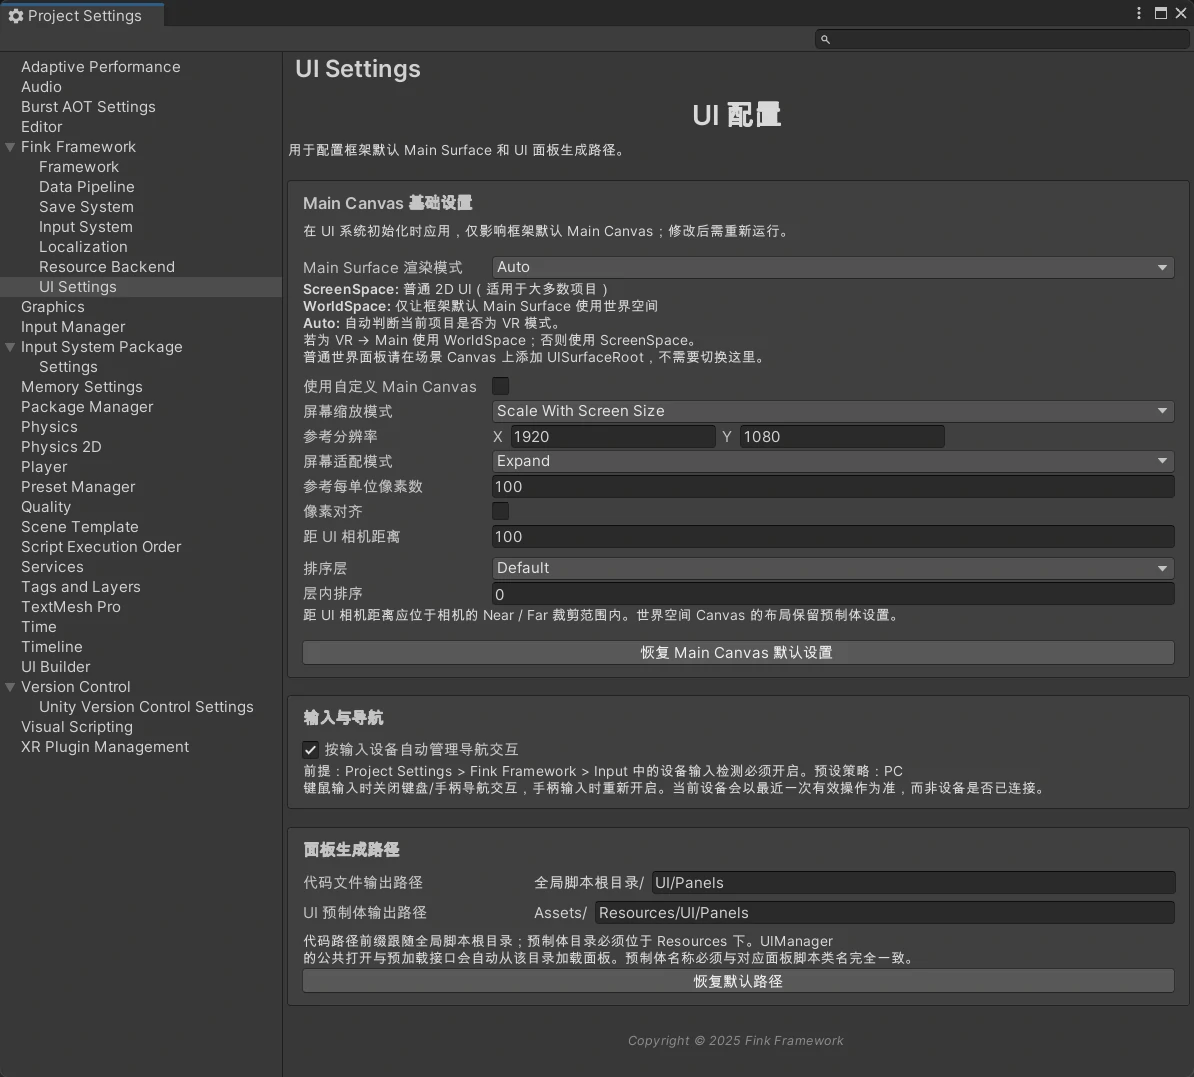
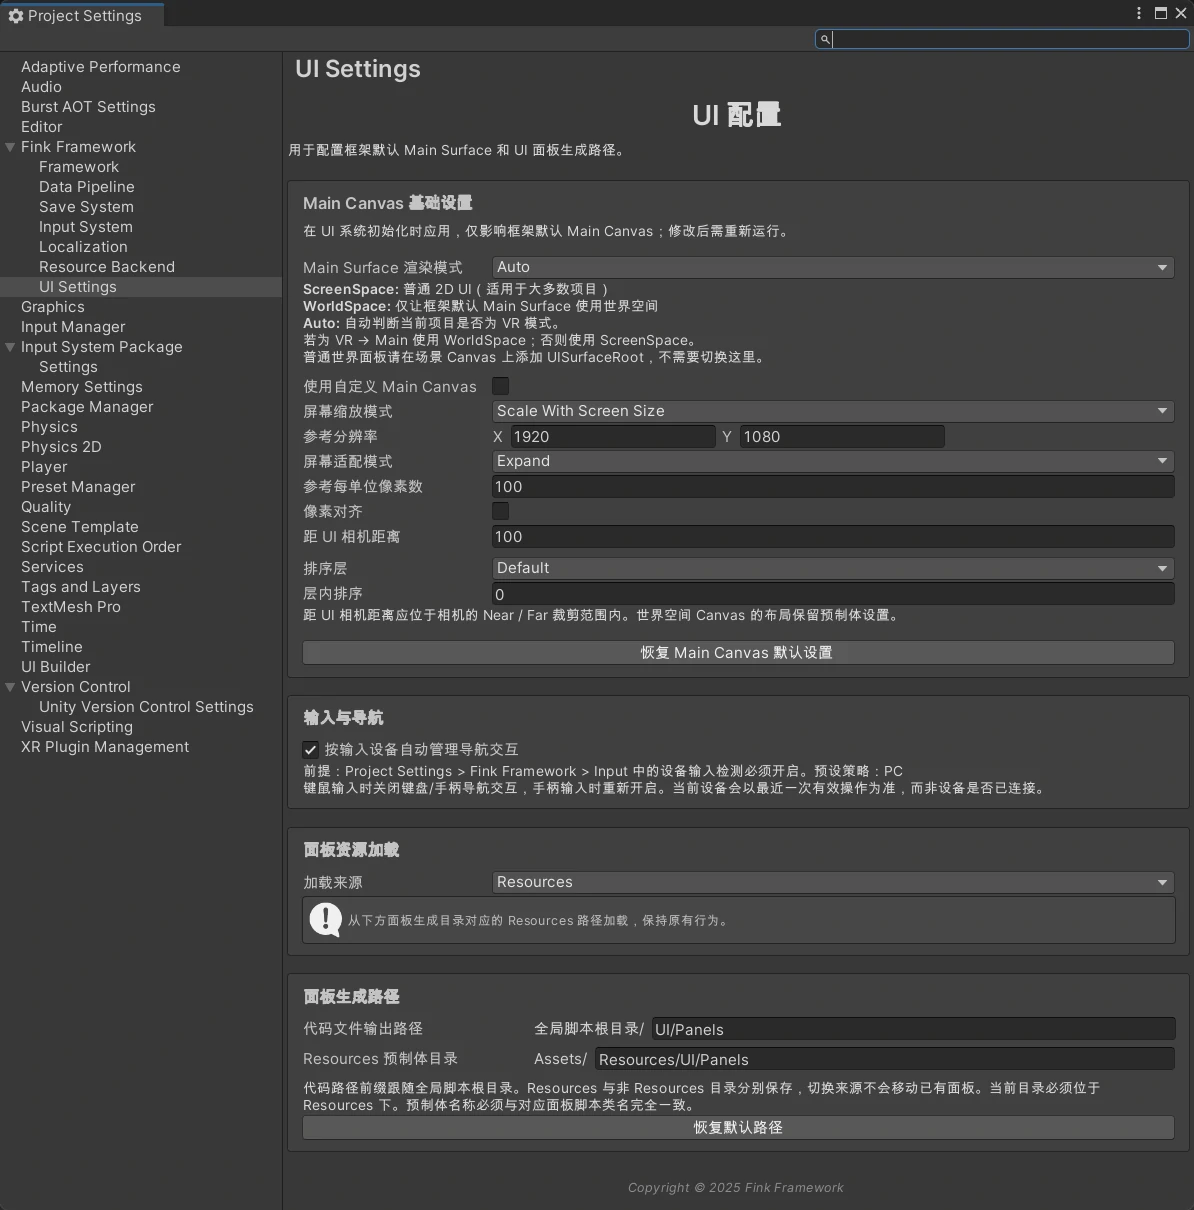
update: 更新1.1.4版本的文档内容

diff --git a/docs/.vitepress/theme/custom.css b/docs/.vitepress/theme/custom.css
@@ -1,3 +1,36 @@
+/* Welcome page document metadata */
+.vp-doc .docs-version-meta {
+  display: flex;
+  flex-wrap: wrap;
+  justify-content: center;
+  gap: 8px 24px;
+  margin: 20px 0 28px;
+  padding: 12px 16px;
+  border: 1px solid var(--vp-c-divider);
+  border-radius: 10px;
+  background: var(--vp-c-bg-soft);
+  font-size: 14px;
+  line-height: 24px;
+}
+
+.docs-version-meta__item {
+  display: inline-flex;
+  align-items: baseline;
+  gap: 8px;
+  color: var(--vp-c-text-2);
+  white-space: nowrap;
+}
+
+.docs-version-meta__item time,
+.docs-version-meta__item a {
+  font-weight: 600;
+  font-variant-numeric: tabular-nums;
+}
+
+.docs-version-meta__item time {
+  color: var(--vp-c-text-1);
+}
+
 /* Artalk comment area */
 .fink-blog-link {
   display: inline-flex;

diff --git a/docs/appendix/faq/index.md b/docs/appendix/faq/index.md
@@ -64,8 +64,11 @@
 
 | 现象 | 原因与处理 |
 | --- | --- |
-| `Open<T>` 或 `OpenAsync<T>` 返回 `null` | 检查面板脚本是否继承 `BasePanel`、预制体根节点是否挂载了对应脚本、预制体名称是否与类型名一致、资源是否位于 UI Settings 配置的 `Resources` 目录，以及 Console 中是否存在编译错误。 |
-| 面板预制体存在，但同步打开失败 | 同步 API 要求底层 Provider 支持同步加载。如果资源正在异步加载或后端只支持异步，改用 `OpenAsync<T>`。 |
+| `Open<T>` 或 `OpenAsync<T>` 返回 `null` | 检查面板继承 `BasePanel` 且脚本挂在预制体根节点、名称与类型一致，并按 UI Settings 加载来源检查 Resources 目录、Addressables Address、AssetBundle 包名或自定义解析器 / Provider；结合 Console 定位错误。 |
+| 面板预制体存在，但同步打开失败 | 非 Resources 的 `Open<T>()` 只复用已加载实例。先等待 `PreloadAsync<T>()` 完成且返回非 `null`，使用相同 Surface / InstanceId 打开；也可直接用 `OpenAsync<T>()`。正在异步加载时，同步接口不会等待。 |
+| Addressables 已开启 Allow Sync Load，仍不能直接同步打开 | 该配置允许同步 `Preload<T>()`，不允许 `Open<T>()` 首次加载。全局后端需为 Addressables，先预加载成功，再同步打开相同 Surface / InstanceId 的实例。 |
+| 已切换资源后端，UI 仍从 Resources 加载 | v1.1.4 默认 UI 加载来源保持 Resources。要使用后端资源，在 UI Settings 中将“加载来源”设为“跟随资源后端”；已有面板需手动迁移和注册。 |
+| Addressables 面板加载或生成扩展不可用 | 检查 `com.unity.addressables` 是否安装，`FinkFramework.Addressables` / `FinkFramework.Editor.UI.Addressables` 是否正常编译；Address 应为区分大小写且唯一的面板类短名称。 |
 | `Get<T>` / `TryGet<T>` 返回空，但面板“应该存在” | 查询 API 不会自动创建面板，只会查找已经预加载或打开的实例。先调用 `Preload`、`PreloadAsync`、`Open` 或 `OpenAsync`；同时确认 `instanceId` 和 `surfaceId` 与打开时一致。 |
 | 同一种面板打开后出现多个实例或查询不到 | 面板身份由类型、`InstanceId` 和 `SurfaceId` 共同决定。默认实例、指定实例和不同 Surface 是不同记录，打开和查询必须使用同一组标识。 |
 | `PreloadAsync` 后面板没有显示 | 预加载只负责加载、实例化和初始化，面板保持隐藏，不会进入 Page 栈，也不会触发 `OnEnter`。之后仍需调用 `Open` 或 `OpenAsync`。 |
@@ -89,7 +92,7 @@
 | --- | --- |
 | UI Builder 创建按钮不可用 | 检查面板名称、脚本输出路径和预制体输出路径是否有效，确认目标文件不存在且目录可写。 |
 | 生成了脚本但没有生成预制体 | 查看 Console 中的生成和编译错误，确认生成类型继承 `BasePanel`，并等待 Unity 完成脚本编译后再检查目标目录。 |
-| 生成的面板无法被 UIManager 打开 | 检查预制体是否位于配置的 Resources 目录、文件名和脚本类型名是否一致，以及脚本是否挂在预制体根节点。 |
+| 生成的面板无法被 UIManager 打开 | 检查加载来源与输出目录、Address 或包名是否匹配，文件名和类型名是否一致，脚本是否挂在预制体根节点。非 Resources 首次打开使用 `OpenAsync<T>()`。 |
 
 详细步骤参见[UI 系统基础使用](/ui-system/basic-usage/)和[UI 运行时 API](/ui-system/api/)。
 

diff --git a/docs/ui-system/ui-builder/index.md b/docs/ui-system/ui-builder/index.md
@@ -13,7 +13,8 @@
 3. 选择默认过渡、安全区和示例控件；
 4. 点击“创建 UI 面板”；
 5. Unity 编译生成的脚本；
-6. 编译完成后自动创建预制体并挂载面板脚本。
+6. 编译完成后自动创建预制体并挂载面板脚本；
+7. 根据创建时的来源配置，注册 Addressables 资源或设置 AssetBundle 包名。
 
 面板名称同时作为 C# 类名和预制体文件名。建议使用 PascalCase，例如 `SettingsPanel`。
 
@@ -65,9 +66,25 @@
 脚本和预制体路径来自 `Project Settings > Fink Framework > UI Settings`：
 
 - 脚本目录：全局脚本根目录下的 UI 面板目录；
-- 预制体目录：`Assets` 下且位于 `Resources` 中的 UI 面板目录。
+- Resources 预制体目录：默认 `Assets/Resources/UI/Panels/`；
+- 非 Resources 预制体目录：默认 `Assets/GameAssets/UI/Panels/`，不能位于 `Resources`、`Editor` 或 `StreamingAssets` 下。
 
 生成器窗口会显示最终输出路径，并在目标脚本或预制体已存在时停止生成。
+
+两类预制体目录分别保存，当前加载来源决定使用哪一个；跟随 `None` 后端仍使用 Resources 目录。切换来源或修改目录不会移动已有资源，也不会修改已有 Address，迁移时需手动整理。
+
+### 资源注册（v1.1.4）
+
+| 当前来源 | 生成器行为 |
+| --- | --- |
+| Resources / 跟随 None | 保存预制体，由 Resources 路径加载 |
+| 跟随 Addressables | 加入 `UI Addressables Group`（默认 `UI Panels`，不存在时创建），Address 设置为面板类名 |
+| 跟随 AssetBundle | 设置 `UI AssetBundle 包名`（默认 `ui`），资源包需另行构建 |
+| 自定义 / 跟随 Custom | 只生成脚本和预制体，项目自行注册资源并配置地址解析器 |
+
+创建时的后端、Group 和包名会跨脚本编译保存，后续注册使用创建时的配置。Addressables 生成扩展需要安装 `com.unity.addressables`；缺失或存在编译错误时会提示不可用。
+
+Address 使用区分大小写的面板类短名称。若该 Address 已被其他资源占用，生成器会拒绝注册；同名面板即使命名空间不同也会冲突。已有目标 Group 必须可写，并包含 `BundledAssetGroupSchema` 和 `ContentUpdateGroupSchema`。AssetBundle 包名必须小写且不含路径分隔符或非法字符。
 
 代码模板位于框架编辑器资源中的：
 
@@ -154,5 +171,6 @@ Fink Framework > UI 系统 > 运行时 UI 调试器
 | --- | --- |
 | 创建按钮不可用 | 面板名称、脚本路径或预制体路径不合法，或目标文件已存在 |
 | 只有脚本没有预制体 | 查看 Console，确认脚本编译成功且类型继承 `BasePanel` |
-| 面板能生成但无法打开 | 检查预制体是否在 `Resources` 下、名称是否与类型一致、脚本是否挂在根节点 |
+| 面板能生成但无法打开 | 检查加载来源对应的目录、Address 或包名，确认名称与类型一致、脚本挂在根节点；非 Resources 首次打开使用 `OpenAsync<T>()` |
+| Addressables 注册失败 | 确认包与生成扩展可用、Address 未被其他资源占用、目标 Group 可写且包含所需 Schema |
 | 示例控件没有回调 | 检查控件名称是否被修改，以及脚本中的类型和 `GetControl<T>` 是否匹配 |

diff --git a/docs/ui-system/index.md b/docs/ui-system/index.md
@@ -92,13 +92,15 @@ UIManager.Instance.RegisterSurface(
 
 所有运行时面板都必须继承 `BasePanel`，并且面板脚本必须挂在预制体根节点。面板预制体名称必须与面板类型名称一致。
 
-UI 面板资源路径由 UI Settings 中的预制体输出目录决定，运行时最终按以下规则生成资源路径：
+v1.1.4 起，UI Settings 可选择 Resources、跟随资源后端或自定义加载来源。默认 Resources 按预制体目录生成地址：
 
 ```text
 res://<UI 面板 Resources 目录>/<面板类型名称>
 ```
 
-面板由 `UIPanelLoader` 统一通过 `ResManager` 加载、实例化和释放，业务代码不需要传入资源路径。
+跟随 Addressables 后端时使用 `addr://<面板类名>`，跟随 AssetBundle 时使用 `ab://<UI 包名>/<面板类名>`，跟随 `None` 时继续使用 Resources；自定义来源或跟随 `Custom` 后端时由 `UIManager.Instance.CustomPanelAssetPathResolver` 返回完整地址。配置方式见 [UI 系统配置](/ui-system/configuration/#面板加载来源)。
+
+面板由 `UIPanelLoader` 统一通过 `ResManager` 加载、实例化和释放，业务代码仍使用强类型 API，不需要传入资源路径。
 
 UIManager 提供两类加载操作：
 
@@ -112,7 +114,9 @@ MainPanel opened = UIManager.Instance.Open<MainPanel>();
 MainPanel openedAsync = await UIManager.Instance.OpenAsync<MainPanel>();
 ```
 
-同步 API 要求底层 Provider 支持同步加载。如果面板正在异步加载，`Preload` 或 `Open` 不会阻塞等待，而是记录错误并返回 `null`；此时应继续使用对应的异步 API。
+同步首次加载仅支持 Resources 的 `Preload` / `Open`，以及全局 Addressables 后端开启 `Allow Sync Load` 后的 `Preload`。非 Resources 面板的同步 `Open` 必须复用已加载实例；先完成预加载并确认返回非 `null`，且使用相同的 Surface 和 InstanceId。首次打开推荐直接使用 `OpenAsync`。
+
+如果面板正在异步加载，`Preload` 或 `Open` 不会阻塞等待，而是记录错误并返回 `null`；此时应继续使用对应的异步 API。
 
 异步 API 返回 `Cysharp.Threading.Tasks.UniTask<T>`。多个调用方访问同一个面板时共享底层加载任务；某个调用方取消自己的等待，只会取消自己的等待，不会取消其他调用方或系统正在执行的加载。
 
@@ -285,6 +289,8 @@ UIManager.Instance.EnableNavigationInteraction();
 ## 11. 编辑器工具
 
 UI Builder 位于 `Fink Framework/UI 系统/创建 UI 面板`，根据 UI Settings 中的输出目录生成面板脚本和预制体。脚本编译完成后，工具会继续创建预制体并挂载生成的面板脚本。
+
+Resources 与非 Resources 预制体目录分别保存。跟随 Addressables 后端时，新面板会自动加入指定 Group 并以类名设置 Address；跟随 AssetBundle 时自动设置包名，资源包需另行构建。切换来源不会自动迁移已有面板，详见 [UI 面板生成器](/ui-system/ui-builder/)。
 
 生成器可以选择：
 

diff --git a/docs/ui-system/api/index.md b/docs/ui-system/api/index.md
@@ -8,9 +8,9 @@
 
 | API | 返回值 | 说明 |
 | --- | --- | --- |
-| `Preload<T>()` | `T` | 同步加载并保持隐藏 |
+| `Preload<T>()` | `T` | 同步预加载；首次支持 Resources 或允许同步加载的 Addressables |
 | `PreloadAsync<T>()` | `UniTask<T>` | 异步加载并保持隐藏 |
-| `Open<T>()` | `T` | 同步加载并打开 |
+| `Open<T>()` | `T` | 同步打开；非 Resources 来源须先完成预加载 |
 | `OpenAsync<T>()` | `UniTask<T>` | 异步加载并打开 |
 | `Open<T, TArgs>(args)` | `T` | 同步打开并注入参数 |
 | `OpenAsync<T, TArgs>(args)` | `UniTask<T>` | 异步打开并注入参数 |
@@ -23,10 +23,18 @@
 | --- | --- | --- |
 | 首次打开并立即显示 | `OpenAsync<T>()` | 等待资源、实例和进入过渡完成 |
 | 预先准备资源 | `PreloadAsync<T>()` | 完成实例化和初始化，但保持隐藏 |
-| Provider 支持同步加载 | `Open<T>()` / `Preload<T>()` | 在当前调用中完成操作 |
+| Resources 首次同步加载 | `Open<T>()` / `Preload<T>()` | 在当前调用中完成操作 |
+| Addressables 首次同步预加载 | `Preload<T>()` | 全局后端须为 Addressables，且开启 `Allow Sync Load` |
+| 非 Resources 面板同步打开 | 预加载完成后调用 `Open<T>()` | 复用相同 Surface / InstanceId 下的已加载实例 |
 | 需要传入业务数据 | `OpenAsync<T, TArgs>(args)` | 在 `OnEnter` 前调用 `ApplyArgs` |
 
-同步 API 适合已确认支持同步加载的资源 Provider。需要等待异步资源时，使用 `UniTask` 版本；调用方传入的 `CancellationToken` 只取消本次等待，不会取消其他调用方共享的底层加载任务。
+UI 层对同步首次加载有额外限制：AssetBundle 和其他自定义协议不支持同步首次预加载；Addressables 开启 `Allow Sync Load` 也不允许用 `Open<T>()` 直接首次加载。预加载未完成、返回 `null` 或 Surface / InstanceId 不一致时，同步打开不能复用目标实例，会记录错误并返回 `null`。
+
+需要等待异步资源时，使用 `UniTask` 版本；调用方传入的 `CancellationToken` 只取消本次等待，不会取消其他调用方共享的底层加载任务。
+
+### 自定义面板地址
+
+`CustomPanelAssetPathResolver` 类型为 `Func<Type, string>`，用于 UI 加载来源为 `Custom` 或跟随 `Custom` 资源后端时，将面板类型转换为完整资源地址。首次加载前设置解析器，并通过 `ResManager.Instance.AddProvider(...)` 注册对应协议 Provider。完整配置见 [面板加载来源](/ui-system/configuration/#面板加载来源)。
 
 ### 预加载与打开的区别
 

diff --git a/docs/ui-system/basic-usage/index.md b/docs/ui-system/basic-usage/index.md
@@ -8,13 +8,15 @@
 
 ## 创建一个面板
 
-面板由 `BasePanel` 脚本和对应的 uGUI 预制体组成。假设面板类型为 `SettingsPanel`：
+面板由 `BasePanel` 脚本和对应的 uGUI 预制体组成。默认 Resources 来源下，假设面板类型为 `SettingsPanel`：
 
 ```text
 脚本：Assets/<脚本根目录>/UI/Panels/SettingsPanel.cs
 预制体：Assets/<Resources 目录>/UI/Panels/SettingsPanel.prefab
 资源路径：res://UI/Panels/SettingsPanel
 ```
+
+v1.1.4 起可在 UI Settings 中切换加载来源。跟随 Addressables 后端时，预制体默认生成到 `Assets/GameAssets/UI/Panels/`，Address 为 `SettingsPanel`，运行时地址为 `addr://SettingsPanel`；业务仍调用 `OpenAsync<SettingsPanel>()`。其他来源见 [面板加载来源](/ui-system/configuration/#面板加载来源)。
 
 预制体根节点必须挂载 `SettingsPanel : BasePanel`。C# 类型名、预制体文件名和根节点脚本类型需要保持一致。
 
@@ -131,7 +133,20 @@ await UIManager.Instance.PreloadAsync<SettingsPanel>();
 await UIManager.Instance.OpenAsync<SettingsPanel>();
 ```
 
-同步预加载和同步打开要求资源 Provider 支持同步加载。异步 API 适合需要异步资源后端的项目。
+同步首次加载支持 Resources。Addressables 只有在全局资源后端选择 Addressables 且开启 `Allow Sync Load` 后，才允许同步 `Preload<T>()`；AssetBundle 和其他自定义协议应使用 `PreloadAsync<T>()`。
+
+非 Resources 面板的同步 `Open<T>()` 需要先完成预加载，且使用相同的 Surface 和 InstanceId。即使允许 Addressables 同步预加载，也不能跳过预加载直接同步首次打开：
+
+```csharp
+var options = UIOpenOptions.Default;
+var panel = await UIManager.Instance.PreloadAsync<SettingsPanel>(options);
+if (panel != null)
+{
+    UIManager.Instance.Open<SettingsPanel>(options);
+}
+```
+
+如果不需要分开预加载和显示，直接使用 `await UIManager.Instance.OpenAsync<SettingsPanel>()`。
 
 预加载得到的实例仍然处于隐藏状态，不会进入 Page 栈，也不会触发 `OnEnter`。第一次真正打开时，系统才根据 `UIOpenOptions` 处理挂载层、显示模式、焦点和页面导航。
 

diff --git a/docs/utilities/log/index.md b/docs/utilities/log/index.md
@@ -13,8 +13,9 @@
 | `Success` | `Debug.Log` | DebugMode 关闭时默认不输出 | 绿色模块标签和 `✓` |
 | `Warn` | `Debug.LogWarning` | 默认强制输出 | 橙色模块标签和 `!` |
 | `Error` | `Debug.LogError` | 始终输出 | 红色模块标签和 `✗` |
+| `LogException` | `Debug.LogException` | 始终输出原始异常 | Unity 原生异常格式 |
 
-所有日志都会带有模块标签：
+除 `LogException` 使用 Unity 原生异常格式外，以上文本日志都会带有模块标签：
 
 ```text
 [DataFilesUtil] 已初始化本地数据
@@ -58,7 +59,7 @@ LogUtil.Error(
     "存档写入失败");
 ```
 
-所有日志级别都同时提供自动模块名和显式模块名两种重载。
+`Log`、`Info`、`Success`、`Warn`、`Error` 都提供自动模块名和显式模块名两种重载；`LogException` 接收原始异常和可选的 Unity 对象，不接收模块名。
 
 ## 4. DebugMode 与 force
 
@@ -108,6 +109,31 @@ LogUtil.Error(
     "DataLoader",
     "关键数据读取失败");
 ```
+
+### 4.4 LogException（v1.1.4）
+
+需要保留异常类型、调用堆栈和内部异常时，使用：
+
+```csharp
+public static void LogException(
+    System.Exception exception,
+    UnityEngine.Object context = null);
+```
+
+例如在 `MonoBehaviour` 中捕获异常并关联当前组件：
+
+```csharp
+try
+{
+    await UIManager.Instance.OpenAsync<SettingsPanel>();
+}
+catch (System.Exception exception)
+{
+    LogUtil.LogException(exception, this);
+}
+```
+
+`context` 可省略；传入组件、GameObject 或其他 Unity 对象后，便于从 Console 定位关联对象。该接口直接调用 `Debug.LogException`，不包装、不重新抛出异常，也不添加彩色模块标签或受 DebugMode 过滤。只有传播到调用方的异常才会进入上面的 `catch`；UIManager 自行处理的加载失败仍需检查返回值和 Console 日志。
 
 ## 5. 自动识别模块名
 

diff --git a/docs/appendix/changelog/index.md b/docs/appendix/changelog/index.md
@@ -4,6 +4,21 @@
 
 ---
 
+### v1.1.4 <span style="font-size:0.8em; color:gray; font-weight:normal;">— 2026-10-15</span> {#v1-1-4}
+
+UI 多来源资源加载与面板生成流程完善
+
+- 新增 UI 面板加载来源配置，支持 Resources、跟随资源后端及自定义模式，默认保持 Resources。
+- 支持通过面板类名加载 Addressables 面板，保留 `OpenAsync<T>()` 等强类型调用方式。
+- 分别保存 Resources 与非 Resources 面板生成目录，支持自动注册 Addressables Group、设置 Address 及 AssetBundle 包名。
+- 完善同步预加载策略，支持读取 Addressables 的 Allow Sync Load 配置，并优化预加载与打开失败时的错误提示。
+- 新增 Addressables 后端不可用提示，保持未安装 Addressables 包时的编译兼容。
+- 新增 `LogUtil.LogException` 接口，支持记录原始异常及关联 Unity 对象。
+
+使用说明：[UI 加载来源与目录配置](/ui-system/configuration/#面板加载来源) · [面板生成与资源注册](/ui-system/ui-builder/#资源注册-v1-1-4) · [同步加载策略](/ui-system/api/#选择加载-api) · [异常日志](/utilities/log/#_4-4-logexception-v1-1-4)。
+
+---
+
 ### v1.1.3 <span style="font-size:0.8em; color:gray; font-weight:normal;">— 2026-10-14</span>
 
 UI 配置完善与自定义 Canvas 支持

diff --git a/docs/resload/configuration/index.md b/docs/resload/configuration/index.md
@@ -34,6 +34,10 @@
 
 使用前请先在 Unity 项目中正确安装并配置 Addressables 包、分组、构建路径和远程服务。
 
+v1.1.4 起，选择 Addressables 后端但未安装 `com.unity.addressables` 时，框架会输出包缺失提示；已安装包但 `FinkFramework.Addressables` 扩展程序集不可用时，会提示检查导入和编译错误。核心程序集不直接依赖可选包，未安装时仍可编译并使用 Resources / AssetBundle。
+
+UI 面板默认仍从 Resources 加载。要跟随 Addressables，在 [UI Settings](/ui-system/configuration/#面板加载来源) 中选择“跟随资源后端”。UI 的 `Preload<T>()` 会读取这里的 `Allow Sync Load`；非 Resources 的 `Open<T>()` 仍要求先预加载成功。
+
 ## 4. 自定义后端
 
 选择 `Custom` 后，需要提供自定义的配置 `ScriptableObject`，并实现对应的资源加载 Provider、初始化逻辑和构建流程。当前核心 `ResManager` 不会根据 `CustomBackendSettings` 自动创建 Provider，项目需要在自己的初始化代码中调用 `AddProvider` 完成注册。框架提供接入点，但不会假设第三方系统的具体实现。

diff --git a/docs/getting-started/welcome/index.md b/docs/getting-started/welcome/index.md
@@ -1,3 +1,7 @@
+<script setup>
+import { withBase } from 'vitepress'
+</script>
+
 <p align="center">
   <img src="/images/brand/f_logo.webp" width="120" alt="Fink Framework Logo">
 </p>
@@ -18,7 +22,10 @@
   <img src="https://img.shields.io/github/license/finkkk/Fink-Framework?style=flat-square&cacheSeconds=0" alt="License">
 </div>
 
-<p align="center"><em>文档更新日期：<strong>2026.10.14</strong></em></p>
+<div class="docs-version-meta" aria-label="文档版本信息">
+  <span class="docs-version-meta__item"><span>文档更新日期</span><time datetime="2026-10-15">2026.10.15</time></span>
+  <span class="docs-version-meta__item"><span>适用版本</span><a :href="withBase('/appendix/changelog/#v1-1-4')">v1.1.4</a></span>
+</div>
 
 ## 框架简介
 
